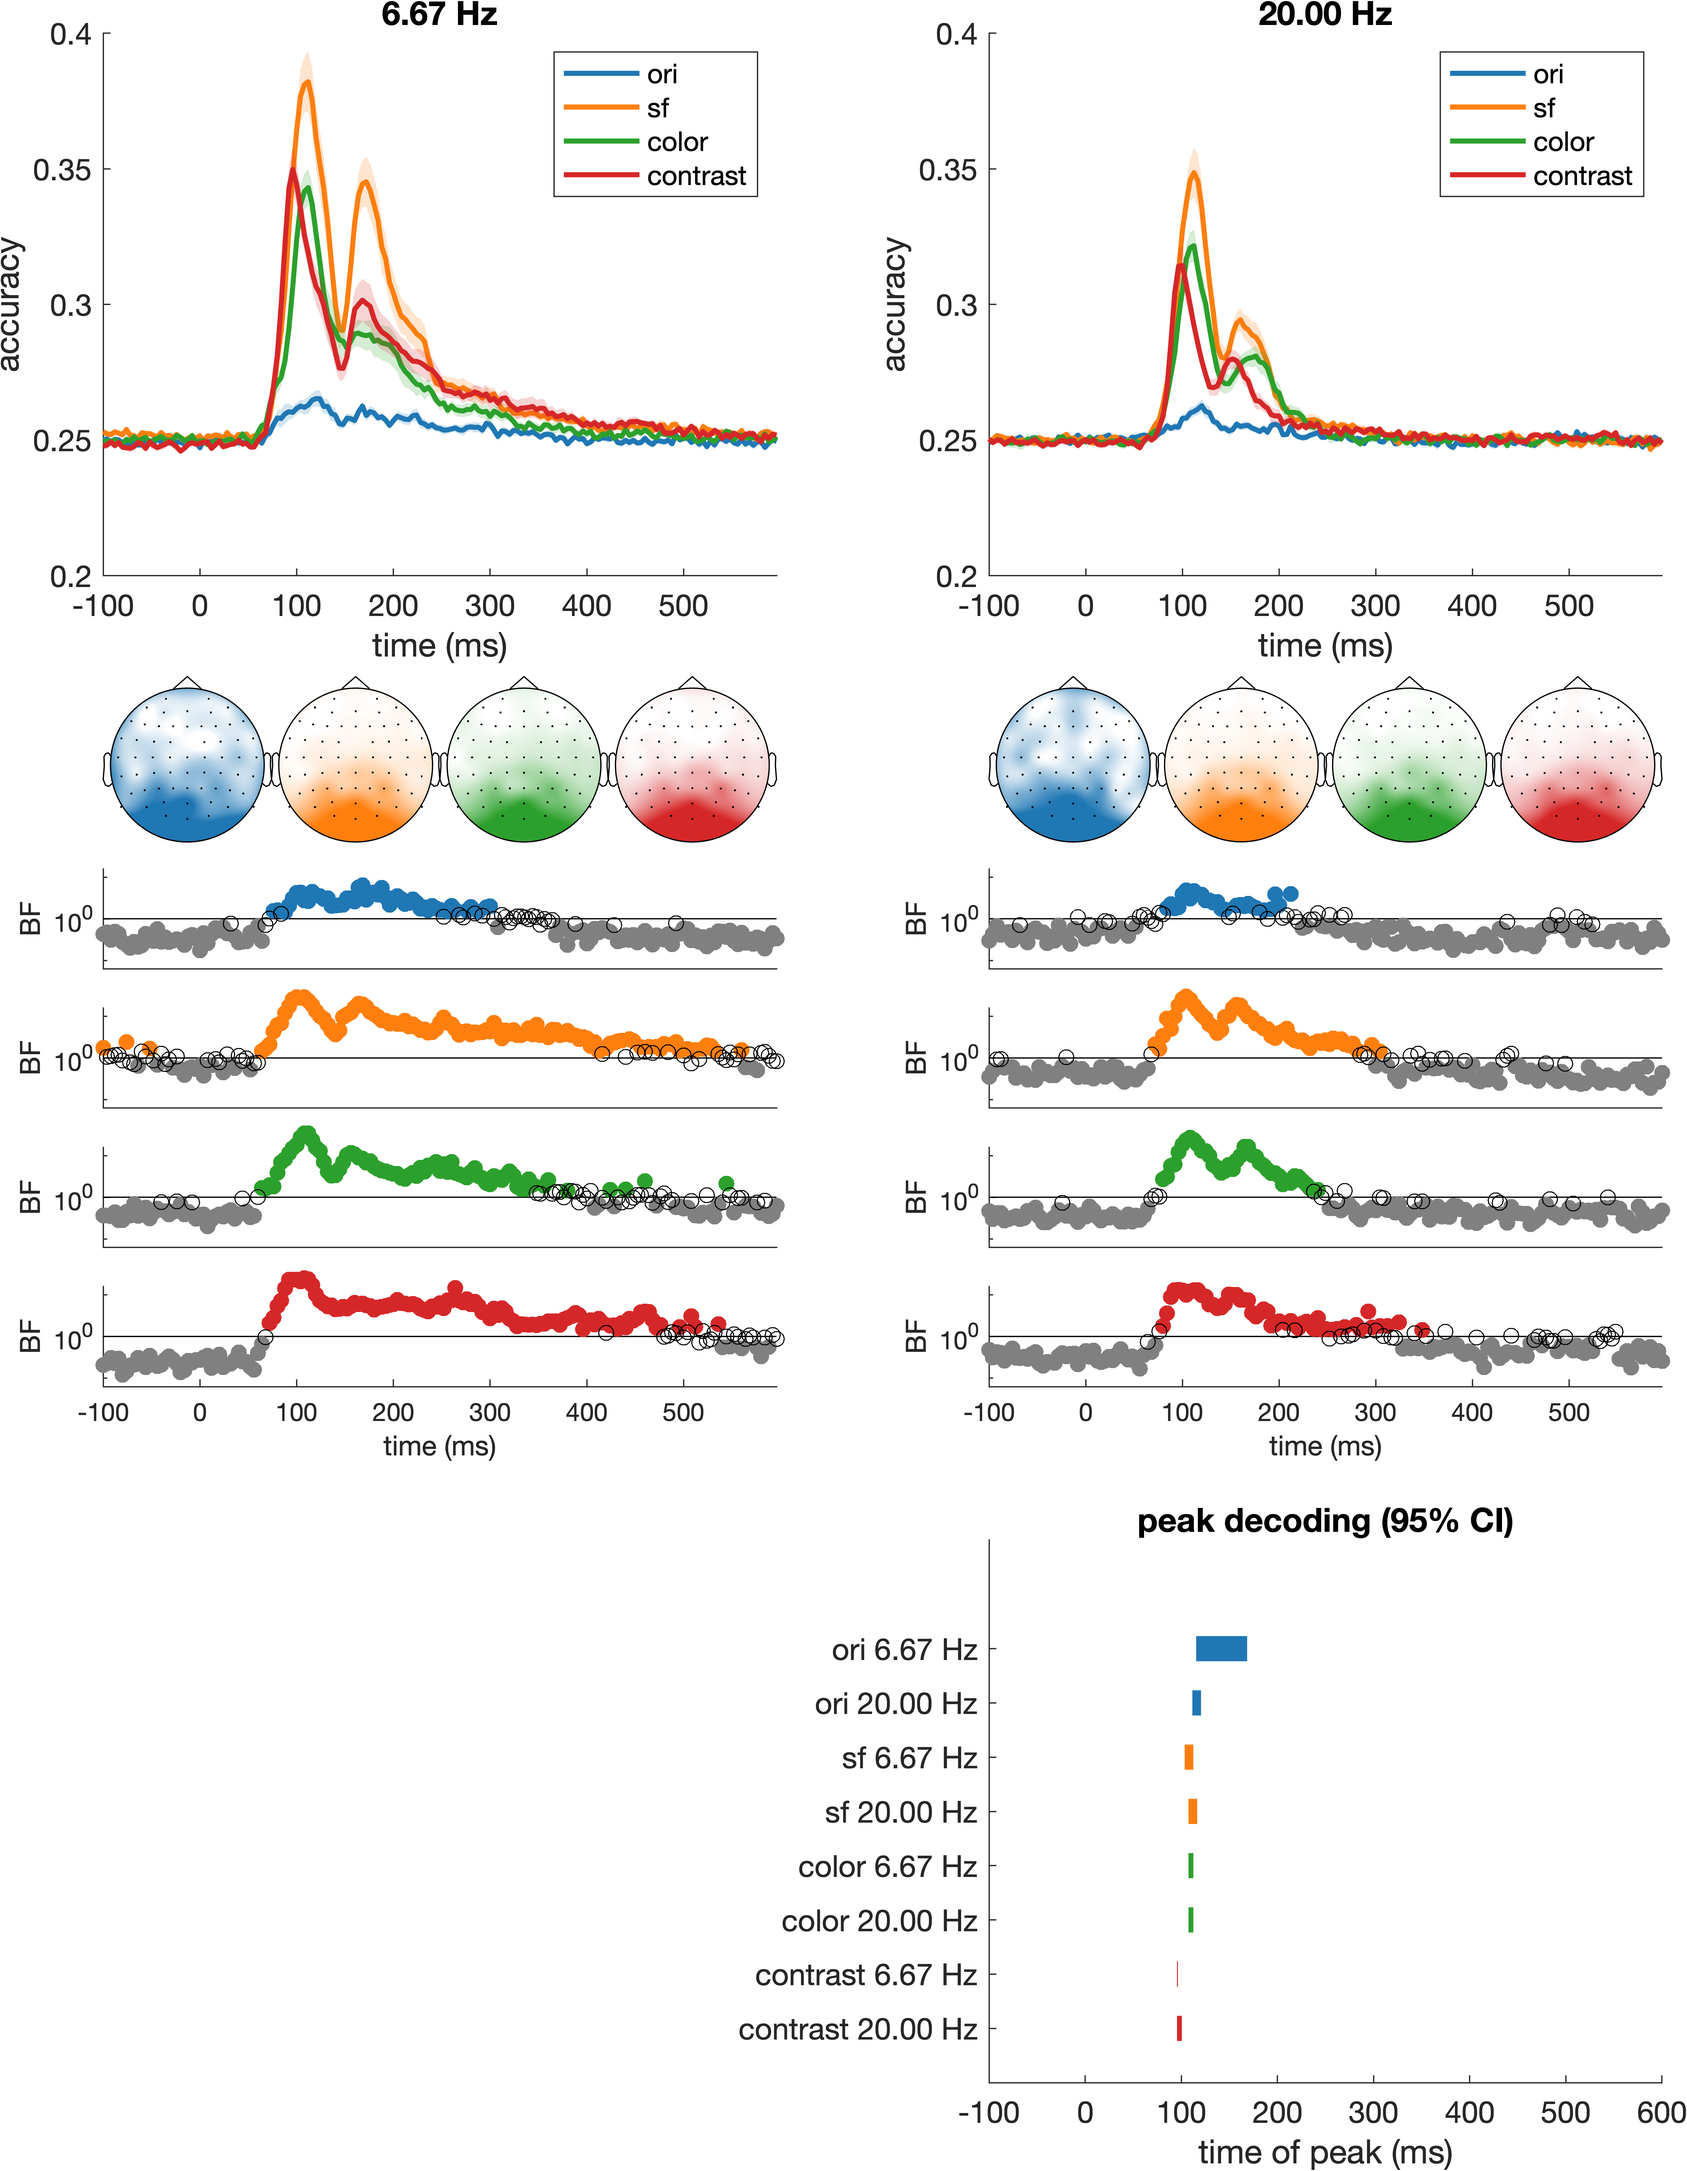
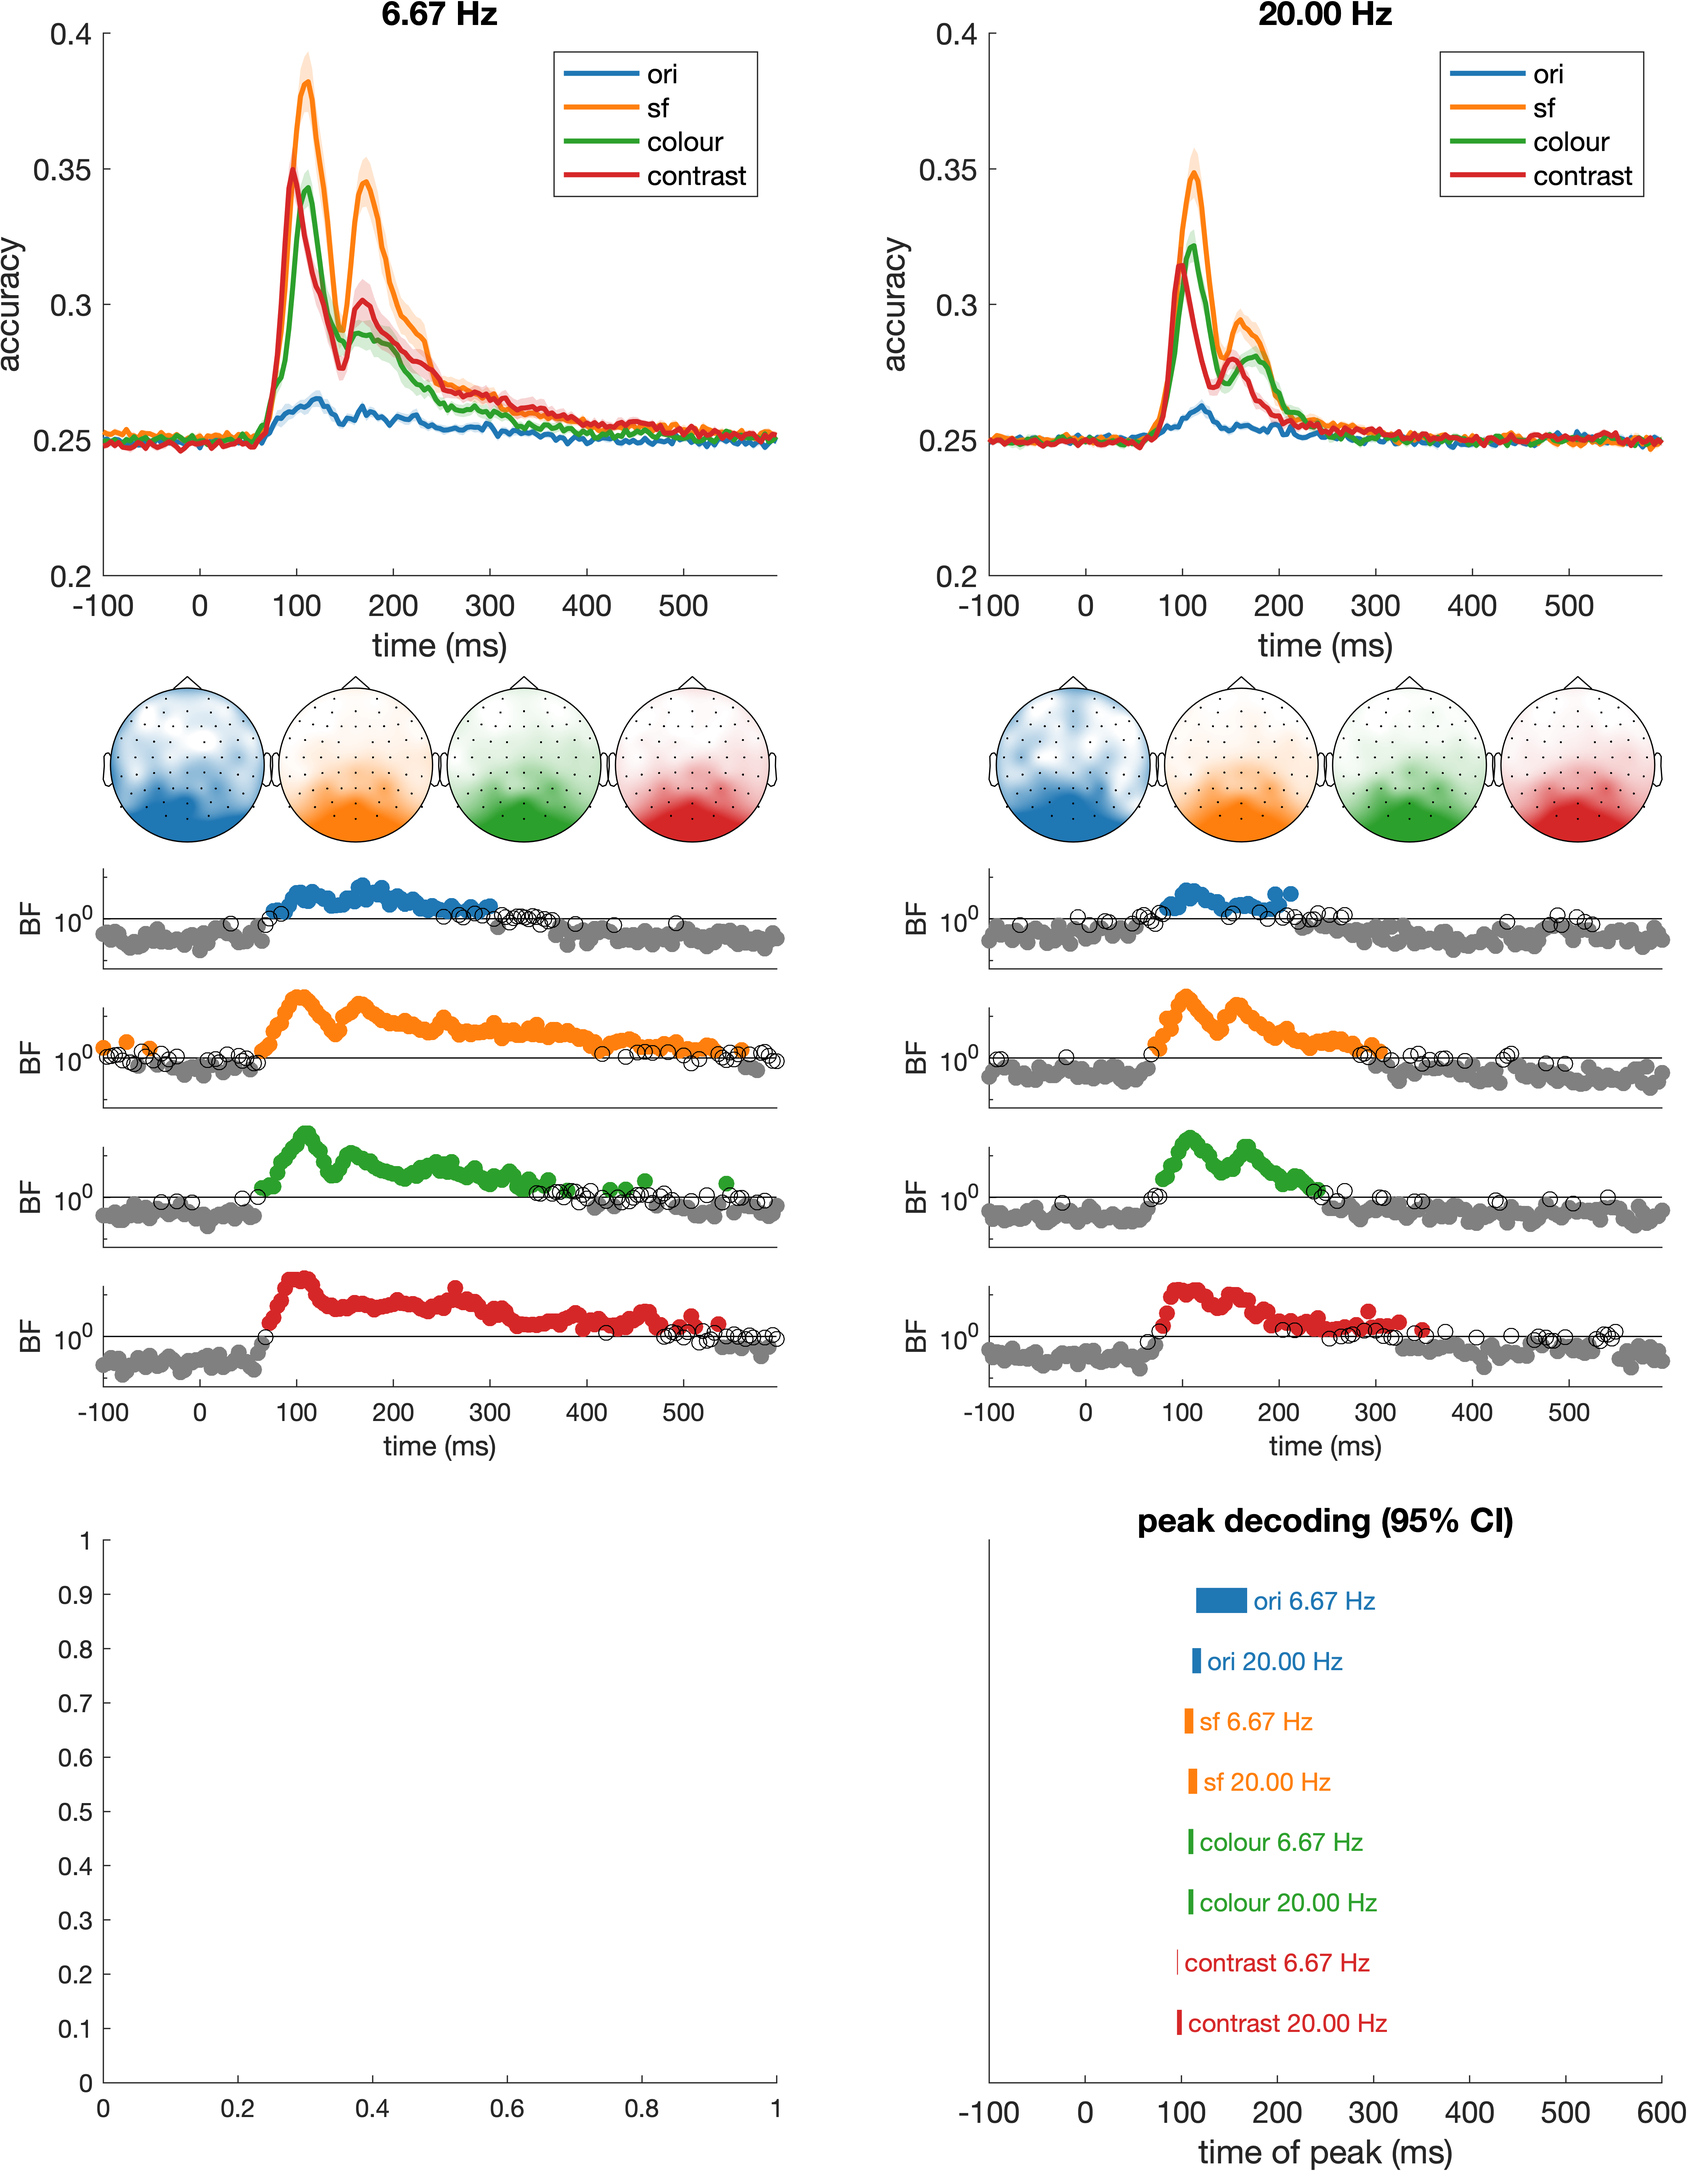
u

diff --git a/code/plot_decoding.m b/code/plot_decoding.m
@@ -22,6 +22,7 @@ f=figure(1);clf
 f.Position = [f.Position(1:2) 800 1000];
 durations = {'soa150','soa50'};h=[];
 targetlabels = {'ori','sf','color','contrast'};
+targetlabelsplot = {'ori','sf','colour','contrast'};
 for d=1:2
     a=subplot(3,2,d);hold on
     a.YLim=[.2 .4];
@@ -32,7 +33,7 @@ for d=1:2
         fill([s.tv fliplr(s.tv)],[s.mu-s.se fliplr(s.mu+s.se)],co(t,:),...
             'FaceAlpha',.2,'LineStyle','none');
         h(t) = plot(s.tv,s.mu,...
-            'DisplayName',s.targetname,'Color',co(t,:),...
+            'DisplayName',targetlabelsplot{t},'Color',co(t,:),...
             'LineWidth',2);
         [~,x] = max(s.mu);
     end
@@ -43,7 +44,7 @@ for d=1:2
     title(sprintf('%.2f Hz',1000/str2double(durations{d}(4:end))))
 
     %topo
-    a1=subplot(15,2,11+ (d==2));hold on
+    a1=subplot(15,2,11+(d==2));hold on
     axis off
     for t=1:4
         s = stats.(durations{d}).(targetlabels{t});
@@ -102,6 +103,10 @@ for d=1:2
         end
     end
     
+    %onset
+    a=subplot(3,2,5);hold on
+
+
     %peak
     a=subplot(3,2,6);hold on
     a.FontSize=12;
@@ -122,12 +127,15 @@ for d=1:2
 %             'xyOri','flipped','distWidth',.95,'showMM',0);
         %plot(s.tv(peak),t,'.','Color',co(t,:),'MarkerSize',20);
         line(s.tv(round(ci))+[-.5 .5],[t t]+.5*(d==2),'Color',co(t,:),'LineWidth',10)
+
+        text(s.tv(max(ci)),t+.5*(d==2),sprintf(' %s %.2f Hz',targetlabelsplot{t},1000/str2double(durations{d}(4:end))),'Color',co(t,:))
         drawnow
     end
-    tt = repelem(targetlabels,2,1);
-    a.YTickLabel = arrayfun(@(x) sprintf('%s %.2f Hz',tt{x},1000/str2double(durations{1 + ~mod(x,2)}(4:end))), 1:8,'UniformOutput',false);
-    a.YTick=[1:.5:4.5];a.YDir='reverse';
-    ylim([0 5])
+    tt = repelem(targetlabelsplot,2,1);
+    %a.YTickLabel = arrayfun(@(x) sprintf('%s %.2f Hz',tt{x},1000/str2double(durations{1 + ~mod(x,2)}(4:end))), 1:8,'UniformOutput',false);
+    %a.YTick=[1:.5:4.5];a.YDir='reverse';   
+    a.YTick=[];a.YDir='reverse';   
+    ylim([0.5 5])
     xlim([-100 600])
     legend(h)
     xlabel('time of peak (ms)')
